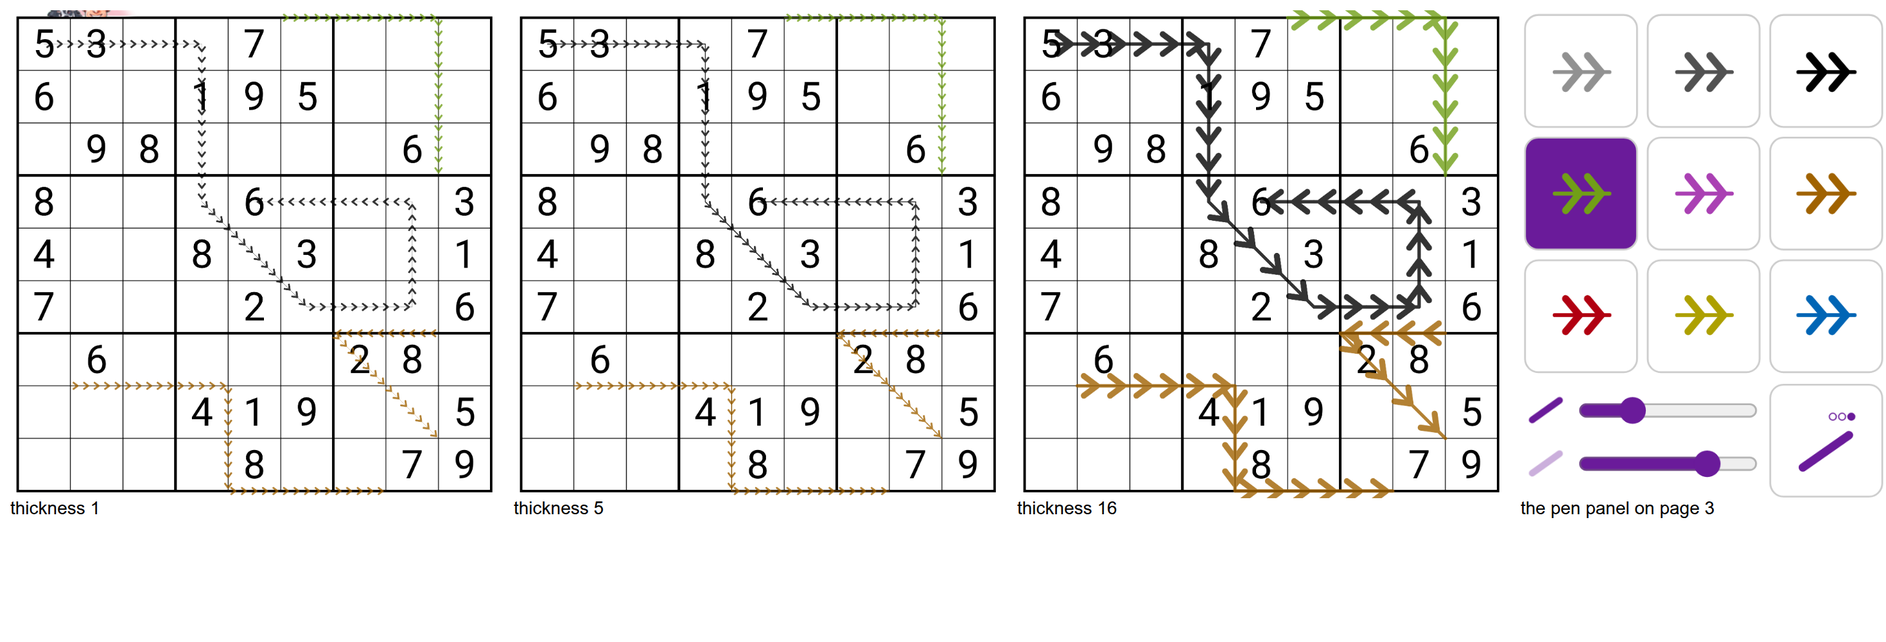
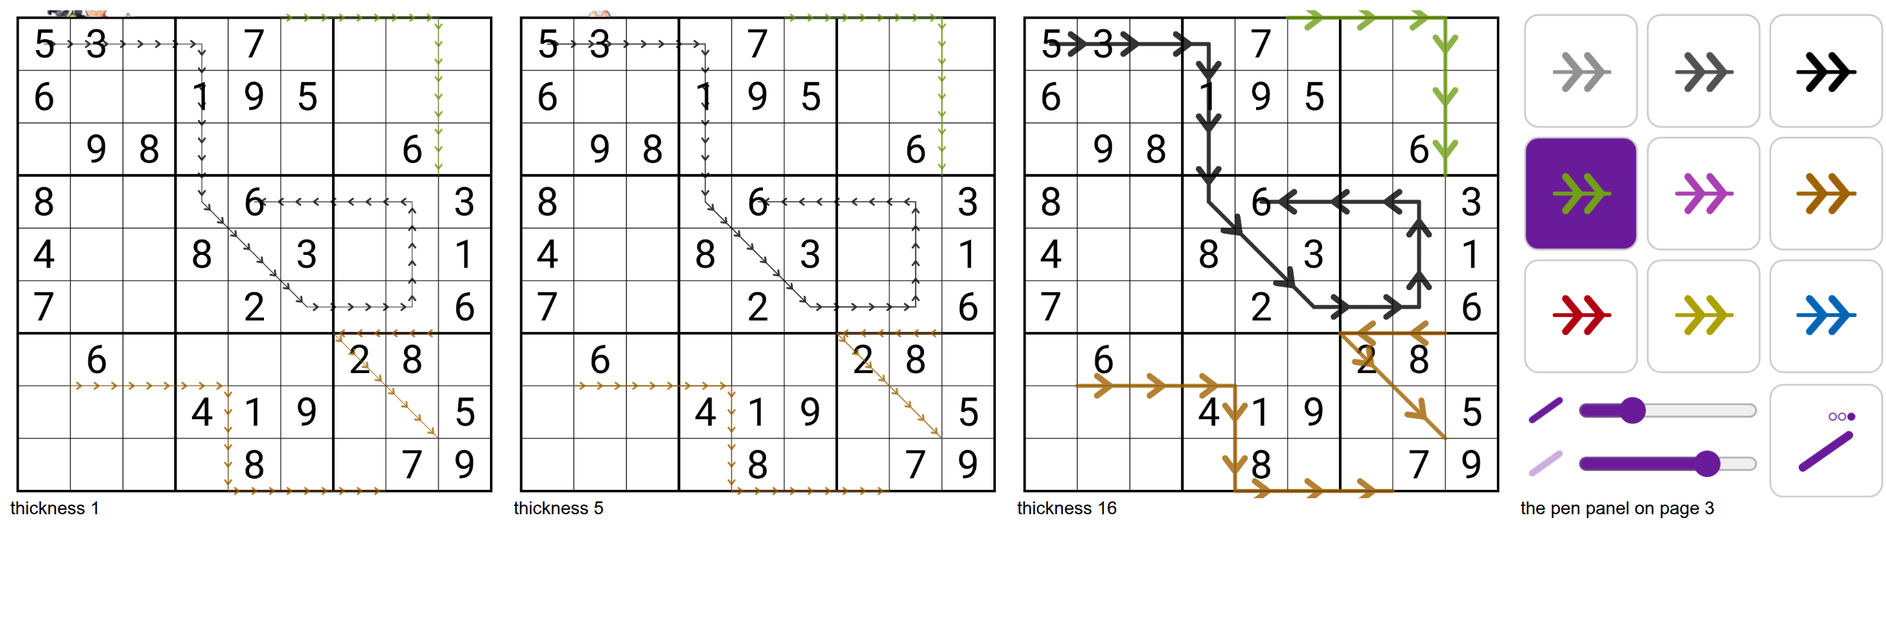
Pen Tool Extras: sparser chevrons and a thicker thin line (#73)

diff --git a/pen-tool-extras.test.js b/pen-tool-extras.test.js
@@ -1205,7 +1205,7 @@ test('the chevrons and the line scale with the thickness: wider chevrons, wider 
   const thick = chevronLine('1', true, 0, 0, 12)
   assert.equal(thick.lineWidth > thin.lineWidth && thick.chevronWidth > thin.chevronWidth, true, `widths ${thin.lineWidth}/${thin.chevronWidth} at 2, ${thick.lineWidth}/${thick.chevronWidth} at 12`)
   assert.equal(thin.chevronWidth > thin.lineWidth, true, `the line is the thin part: ${thin.lineWidth} against ${thin.chevronWidth}`)
-  assert.equal(thick.lineWidth / thin.lineWidth, 6)
+  assert.equal(chevronLine('1', true, 0, 0, 10).lineWidth / chevronLine('1', true, 0, 0, 5).lineWidth, 2, 'above the line\'s minimum it scales with the thickness')
   assert.equal(pointsOf(thin.chevrons).length > pointsOf(thick.chevrons).length, true, `${pointsOf(thin.chevrons).length / 3} chevrons at 2, ${pointsOf(thick.chevrons).length / 3} at 12`)
   const span = (c) => { const ys = pointsOf(c.chevrons).map((p) => p[1]); return Math.max(...ys) - Math.min(...ys) }
   assert.equal(span(thick) > span(thin), true, `spans ${span(thin)} at 2, ${span(thick)} at 12`)
@@ -1216,9 +1216,9 @@ test('below the default thickness the chevrons keep their size at the default an
   const five = chevronLine('1', true, 0, 0, THICKNESS.fallback)
   assert.equal(one.chevrons, five.chevrons)
   assert.equal(one.chevronWidth, five.chevronWidth)
-  assert.equal(one.lineWidth, CHEVRON.line)
+  assert.equal(one.lineWidth, CHEVRON.lineMin, 'the line is at its minimum, which is visible')
   assert.equal(one.lineWidth < five.lineWidth, true, `the line is ${one.lineWidth} at 1 and ${five.lineWidth} at 5`)
-  assert.equal(one.chevronWidth > one.lineWidth * 5, true, `a chevron stroke of ${one.chevronWidth} stands clear of a line of ${one.lineWidth}`)
+  assert.equal(one.chevronWidth > one.lineWidth * 2, true, `a chevron stroke of ${one.chevronWidth} stands clear of a line of ${one.lineWidth}`)
 })
 
 test('at the largest thickness a chevron on a grid\'s outer edge reaches no further than Dark Page keeps (SOLVER_REACH)', () => {
@@ -1229,10 +1229,10 @@ test('at the largest thickness a chevron on a grid\'s outer edge reaches no furt
   assert.equal(reach <= SOLVER_REACH, true, `reach ${reach} against ${SOLVER_REACH}`)
 })
 
-test('a chevron line has at least two chevrons on any segment at any thickness, so a run never has none', () => {
+test('a chevron line has at least one chevron on any segment at any thickness, so a run never has none', () => {
   for (const value of LINE_VALUES) {
     for (let t = THICKNESS.min; t <= THICKNESS.max; t++) {
-      assert.equal(pointsOf(chevronLine(value, true, 4, 4, t).chevrons).length >= 6, true, `at least two chevrons: ${value} at ${t}`)
+      assert.equal(pointsOf(chevronLine(value, true, 4, 4, t).chevrons).length >= 3, true, `at least one chevron: ${value} at ${t}`)
     }
   }
 })

diff --git a/pen-tool-extras.user.js b/pen-tool-extras.user.js
@@ -405,10 +405,11 @@
   // The sizes of a chevron line, in line widths (the thickness setting; the line's own width follows it all the way down, but a
   // chevron is never smaller than at the default thickness, so its direction stays visible at 1): a chevron's wings reach `halfLength` back and
   // `halfWidth` out from its middle and its tip `halfLength` forward; `line` and `stroke` are the widths of the thin line and the
-  // chevrons; `spacing` is the distance between two chevrons' middles, fitted to a whole number per segment. The furthest a
+  // chevrons (`lineMin` units at the least, so the line shows at thickness 1); `spacing` is the distance between two chevrons'
+  // middles, fitted to a whole number per segment (a run of chevrons, not a solid row of them). The furthest a
   // chevron reaches off its line, halfWidth plus half the stroke at the largest thickness, stays inside what Dark Page keeps
   // past a cell (its `SOLVER_REACH`; a unit test holds the two together).
-  const CHEVRON = { halfLength: 0.5, halfWidth: 0.75, stroke: 0.45, line: 0.25, spacing: 2.6 }
+  const CHEVRON = { halfLength: 0.5, halfWidth: 0.75, stroke: 0.45, line: 0.3, lineMin: 1, spacing: 5 }
 
   // Which way a line stored with the color character `char` was dragged: true for the character on a chevron page's button
   // (forward), false for its reverse character, null for a character no chevron page uses.
@@ -496,7 +497,7 @@
     // Chevrons keep the size they have at the default thickness below it; only the thin line gets thinner.
     const size = Math.max(thickness, THICKNESS.fallback)
     const [half, wide] = [CHEVRON.halfLength * size, CHEVRON.halfWidth * size]
-    // The shortest segment (a cell side) holds at least two even at the largest thickness, so there is never none.
+    // The shortest segment (a cell side) holds at least one even at the largest thickness, so there is never none.
     const count = Math.round(length / (CHEVRON.spacing * size))
     let chevrons = ''
     for (let i = 0; i < count; i++) {
@@ -507,7 +508,7 @@
     return {
       line: `M${pointText(from)}L${pointText(to)}`,
       chevrons,
-      lineWidth: CHEVRON.line * thickness,
+      lineWidth: Math.max(CHEVRON.lineMin, CHEVRON.line * thickness),
       chevronWidth: CHEVRON.stroke * size
     }
   }

diff --git a/README.md b/README.md
@@ -8,7 +8,7 @@ Install [Tampermonkey](https://www.tampermonkey.net/), then open a script's link
 
 - [Color by Digit](https://raw.githubusercontent.com/caneff/sudokupad-scripts/main/color-by-digit.user.js): adds a button that colors every cell holding a digit, and every empty cell whose centre marks all belong to one group, using groups of palette colors set in a settings dialog.
 - [Digit Color](https://raw.githubusercontent.com/caneff/sudokupad-scripts/main/digit-color.user.js): colors the digits themselves, one color per digit, in entered digits, corner marks and centre marks. Starts from default colors; change them in a settings dialog. Givens keep their color; a conflicting mark keeps its digit color and gets a small red circle behind it.
-- [Pen Tool Extras](https://raw.githubusercontent.com/caneff/sudokupad-scripts/main/pen-tool-extras.user.js): six things for the pen tool: the colors, the pen's line mode and the edge and corner marks in one settings dialog, a second and a third page of nine pens, and two sliders in the pen tool's own panel. **Colors:** changes the pen's nine colors. Strokes already drawn and the tool's color buttons change with them. With nothing saved, the nine pen colors are your current cell color page, darkened, each pen on the same button number as its cell color (pen 1 takes the page's color on button 1, and so on; button 0 is not used), with the darkest grey turned black, so installing changes the pen colors straight away; a cell color that is transparent or unreadable leaves SudokuPad's own pen color on that button; edit and Save to keep your own. In the dialog the nine colors are a 3 by 3 grid in the arrangement of the pen tool's buttons (1 2 3, 4 5 6, 7 8 9), each picker with its number. Holding a pen color button for a second (with either mouse button) puts a color picker over each button, as the cell color tool does: click one to open the picker, and the pen changes live and the set is saved; hold again, or leave the pen tool, to close them. The colors are read when the page loads, so changing cell colors later does not move the pen until the next load. **Thickness:** one slider (1 to 16; SudokuPad's own pen line is 5) scales pen lines, the pen's cell circles and crosses, and the edge and corner marks together: at 5 everything draws at its usual width, and moving the slider changes each by the same factor. Edge marks and corner marks (the edge X, the arrows and circles, the corner X and circle) also grow in length above 5, evenly to 1.3 times at 16, centred on their edge or corner, with the same stroke width as before the growth; lines do not change. The growth is a CSS scale, so marks already drawn grow too. Dark Page keeps the largest of them inside its rectangle. The slider sits in the pen tool's panel, so it changes during play and exists only while the pen tool is on: SudokuPad's line mode pulldown is hidden (its choice moved to the settings dialog, see Line mode below) and the two sliders take its row, Thickness above Opacity, each with a small line icon, beside the page button of Pen pages. A move changes the marks live and is saved at once under `PenColor_thickness`, with no Save or Cancel; it does not turn the colors into a saved set, adds nothing to undo or the replay, and gives the keyboard back to the puzzle. **Slider options:** the settings dialog has a Sliders section: Show thickness slider and Show opacity slider (both ticked by default; saved under `PenColor_sliders`, so settings saved without it keep both showing) and the Thickness and Opacity sliders themselves, which are always there, hidden from the panel or not. A hidden slider's value still applies to the marks and can still be changed in the dialog. With one slider hidden the other keeps its place in the panel; with both hidden the panel's last row holds only the page button. A dialog slider, like the rest of the dialog, takes effect on Save and Cancel leaves it; the panel's sliders keep saving at once, and the dialog opens at the value in force, so the two show the same value. **Opacity:** a second slider (20 to 100 percent, in steps of 5) sets how see-through every pen mark is: lines, cell circles and crosses, edge marks and corner marks. SudokuPad draws pen marks at 80 percent (`.cell-pen { opacity: 0.8 }` in `tool-pen.css`), so 80 is the default and leaves a single stroke as it is (overlaps differ, as described next); 100 is solid, and 20 is the floor where a mark still shows, so dense marks stop hiding the digits underneath. It is the second slider in the pen tool's panel, changes the marks live and is saved at once under `PenColor_opacity`. The opacity is set on the whole pen layer, not on each stroke, so strokes that overlap (the segments of one line, or two lines that cross) show the same as the rest of their stroke and no longer darken at the joins; where two colors cross, the later stroke covers the earlier one instead of blending with it. The drag highlight and the erase highlight keep SudokuPad's own look at every slider value. **Pen pages:** a second page of nine pens, and a third (below), for 27, paged the way SudokuPad's cell color tool pages its colors. Page 2 draws the same nine colors as page 1 with dotted lines (a free line, an edge line or a diagonal; the cell circle, the cross and the edge and corner marks stay solid), and the dots scale with the Thickness slider. The dialog's Dash length slider (0 to 8 line widths, saved under `PenColor_dash`) turns each dot into a dash: 0 is the dots of today, which saved settings without it keep, and a dash is that many line widths long, so it scales with Thickness, changes the page 2 lines already drawn, and shows on the page button; each cell's piece of a line starts and ends with half a gap, so dashes are the same length across a cell boundary, and a dash too long for a cell to hold a gap is shortened to leave one, so a page 2 line is never solid. The page 2 swatches stay dots. A page button at the right end of the panel's last row shows the line the next page draws, with a dot for each page and the current one filled; click it, press Tab, or turn the mouse wheel over the pen buttons (down for the next page, up for the previous) to change page. The same pen number stays selected, so Tab turns a green line into a dotted green one. The selected pen, page included, is saved under `PenColor_pen` and comes back after a reload; SudokuPad's own `ToolPen_color` only ever holds the pen's number, so removing this script leaves stock SudokuPad working with that pen on its first page. Recoloring a pen, in the dialog or by holding its button, changes it on every page. Tab does nothing else in the pen tool with this script on, with No Tab Letters installed or not (Shift+Tab is left to SudokuPad). **Chevron lines (page 3):** a third page of nine pens, the same nine colors, draws a thin line with a run of chevrons along it, pointing the way you dragged. A swatch on this page shows a chevron, and the page button shows one while the next page is this one. Only lines are chevron lines (a free, edge or diagonal line, each cell's piece drawn with whole chevrons so a run reads as one across a cell boundary); a cell circle, a cross, and the edge and corner marks stay solid. The chevrons scale with Thickness from 5 up (below 5 they keep their size at 5, so the direction stays visible, and only the thin line gets thinner; they are drawn again when it changes, so lines already drawn follow, and they stay inside the rectangle Dark Page keeps at 16) and follow Opacity. A pen value has no direction, so a page 3 pen is two color characters, `j` to `z` and `0`, two to a pen: a line stores the one for the way each segment was dragged, so a drag that turns stores the right character per segment and is still one undo step, and the replay and a reload keep it. Dragging over a line erases it whichever way either was drawn. Recoloring a pen changes it on all three pages. **Lines drawn with a page 3 pen, like page 2's, are invisible to anyone without this script**; **Lines drawn with a page 2 pen are invisible to anyone without this script**: SudokuPad stores them and shares them in the replay, but without this script's CSS it draws them with no color, so a viewer without the script sees the marks missing. **Line mode:** the dialog's Pen line mode (Center & Edge, Center only, Edge only) is SudokuPad's own setting, saved where its pulldown saved it; Save applies it. **Edge marks:** adds direction arrows (`>` `<` on a vertical edge, `^` `v` on a horizontal one) and a circle (a small open ring; a dot saved by an earlier version draws as the circle) to the pen tool's marks on a cell edge. Clicking an edge cycles through the marks ticked in the dialog, each shown with a small picture; the pen tool's own X is one of them. A right click on an edge steps the same cycle backwards (from empty to the last ticked mark, from the X to empty) and keeps the browser's menu closed there; a right click anywhere but on an edge or a grid corner keeps its menu. Touch has no right click, so it only steps forward. **Grid-corner marks:** a click within 0.2 of a cell of a grid corner, inner or outer, cycles an X, then a circle, then empty (a right click goes backwards, and keeps the browser's menu closed there); there are no arrows, since a corner has no edge direction. The dialog's two Corner marks boxes (X and Circle, each with a picture) turn each on or off, and with both off a click near a corner is SudokuPad's own edge click again. A corner shared by four cells is one mark. Corner marks are half the Thickness slider, like edge marks, and are saved in the same place as the edge marks settings (data saved by an earlier version reads as both boxes ticked). These wrap SudokuPad's pen tool and renderer, which are internals, so a SudokuPad update can break them, and the edge and corner marks are then left off, and page 3 lines draw as plain lines with no chevrons; the sliders also rely on SudokuPad's line mode pulldown, so if an update removes it they and the page button do not appear (the saved thickness and opacity still apply, but cannot be changed until this script is updated), while the colors still work. The dialog's Restore defaults goes back to the darkened page (Save keeps it), and sets the dialog's Thickness, Opacity and Dash length sliders and the two Show boxes back to their defaults, all of which wait for Save like the colors (Cancel leaves what was in force). Turn the pen tool on in settings first. It replaces Pen Color and Edge Marks: installed copies of those two stop updating, so remove them by hand in Tampermonkey; your saved colors and edge marks carry over.
+- [Pen Tool Extras](https://raw.githubusercontent.com/caneff/sudokupad-scripts/main/pen-tool-extras.user.js): six things for the pen tool: the colors, the pen's line mode and the edge and corner marks in one settings dialog, a second and a third page of nine pens, and two sliders in the pen tool's own panel. **Colors:** changes the pen's nine colors. Strokes already drawn and the tool's color buttons change with them. With nothing saved, the nine pen colors are your current cell color page, darkened, each pen on the same button number as its cell color (pen 1 takes the page's color on button 1, and so on; button 0 is not used), with the darkest grey turned black, so installing changes the pen colors straight away; a cell color that is transparent or unreadable leaves SudokuPad's own pen color on that button; edit and Save to keep your own. In the dialog the nine colors are a 3 by 3 grid in the arrangement of the pen tool's buttons (1 2 3, 4 5 6, 7 8 9), each picker with its number. Holding a pen color button for a second (with either mouse button) puts a color picker over each button, as the cell color tool does: click one to open the picker, and the pen changes live and the set is saved; hold again, or leave the pen tool, to close them. The colors are read when the page loads, so changing cell colors later does not move the pen until the next load. **Thickness:** one slider (1 to 16; SudokuPad's own pen line is 5) scales pen lines, the pen's cell circles and crosses, and the edge and corner marks together: at 5 everything draws at its usual width, and moving the slider changes each by the same factor. Edge marks and corner marks (the edge X, the arrows and circles, the corner X and circle) also grow in length above 5, evenly to 1.3 times at 16, centred on their edge or corner, with the same stroke width as before the growth; lines do not change. The growth is a CSS scale, so marks already drawn grow too. Dark Page keeps the largest of them inside its rectangle. The slider sits in the pen tool's panel, so it changes during play and exists only while the pen tool is on: SudokuPad's line mode pulldown is hidden (its choice moved to the settings dialog, see Line mode below) and the two sliders take its row, Thickness above Opacity, each with a small line icon, beside the page button of Pen pages. A move changes the marks live and is saved at once under `PenColor_thickness`, with no Save or Cancel; it does not turn the colors into a saved set, adds nothing to undo or the replay, and gives the keyboard back to the puzzle. **Slider options:** the settings dialog has a Sliders section: Show thickness slider and Show opacity slider (both ticked by default; saved under `PenColor_sliders`, so settings saved without it keep both showing) and the Thickness and Opacity sliders themselves, which are always there, hidden from the panel or not. A hidden slider's value still applies to the marks and can still be changed in the dialog. With one slider hidden the other keeps its place in the panel; with both hidden the panel's last row holds only the page button. A dialog slider, like the rest of the dialog, takes effect on Save and Cancel leaves it; the panel's sliders keep saving at once, and the dialog opens at the value in force, so the two show the same value. **Opacity:** a second slider (20 to 100 percent, in steps of 5) sets how see-through every pen mark is: lines, cell circles and crosses, edge marks and corner marks. SudokuPad draws pen marks at 80 percent (`.cell-pen { opacity: 0.8 }` in `tool-pen.css`), so 80 is the default and leaves a single stroke as it is (overlaps differ, as described next); 100 is solid, and 20 is the floor where a mark still shows, so dense marks stop hiding the digits underneath. It is the second slider in the pen tool's panel, changes the marks live and is saved at once under `PenColor_opacity`. The opacity is set on the whole pen layer, not on each stroke, so strokes that overlap (the segments of one line, or two lines that cross) show the same as the rest of their stroke and no longer darken at the joins; where two colors cross, the later stroke covers the earlier one instead of blending with it. The drag highlight and the erase highlight keep SudokuPad's own look at every slider value. **Pen pages:** a second page of nine pens, and a third (below), for 27, paged the way SudokuPad's cell color tool pages its colors. Page 2 draws the same nine colors as page 1 with dotted lines (a free line, an edge line or a diagonal; the cell circle, the cross and the edge and corner marks stay solid), and the dots scale with the Thickness slider. The dialog's Dash length slider (0 to 8 line widths, saved under `PenColor_dash`) turns each dot into a dash: 0 is the dots of today, which saved settings without it keep, and a dash is that many line widths long, so it scales with Thickness, changes the page 2 lines already drawn, and shows on the page button; each cell's piece of a line starts and ends with half a gap, so dashes are the same length across a cell boundary, and a dash too long for a cell to hold a gap is shortened to leave one, so a page 2 line is never solid. The page 2 swatches stay dots. A page button at the right end of the panel's last row shows the line the next page draws, with a dot for each page and the current one filled; click it, press Tab, or turn the mouse wheel over the pen buttons (down for the next page, up for the previous) to change page. The same pen number stays selected, so Tab turns a green line into a dotted green one. The selected pen, page included, is saved under `PenColor_pen` and comes back after a reload; SudokuPad's own `ToolPen_color` only ever holds the pen's number, so removing this script leaves stock SudokuPad working with that pen on its first page. Recoloring a pen, in the dialog or by holding its button, changes it on every page. Tab does nothing else in the pen tool with this script on, with No Tab Letters installed or not (Shift+Tab is left to SudokuPad). **Chevron lines (page 3):** a third page of nine pens, the same nine colors, draws a thin line with a run of chevrons along it, pointing the way you dragged. A swatch on this page shows a chevron, and the page button shows one while the next page is this one. Only lines are chevron lines (a free, edge or diagonal line, each cell's piece drawn with whole chevrons so a run reads as one across a cell boundary); a cell circle, a cross, and the edge and corner marks stay solid. The chevrons scale with Thickness from 5 up (below 5 they keep their size at 5, so the direction stays visible, and the thin line under them gets thinner only down to a minimum that still shows, with sparser chevrons, about three to a cell at 5; they are drawn again when it changes, so lines already drawn follow, and they stay inside the rectangle Dark Page keeps at 16) and follow Opacity. A pen value has no direction, so a page 3 pen is two color characters, `j` to `z` and `0`, two to a pen: a line stores the one for the way each segment was dragged, so a drag that turns stores the right character per segment and is still one undo step, and the replay and a reload keep it. Dragging over a line erases it whichever way either was drawn. Recoloring a pen changes it on all three pages. **Lines drawn with a page 3 pen, like page 2's, are invisible to anyone without this script**; **Lines drawn with a page 2 pen are invisible to anyone without this script**: SudokuPad stores them and shares them in the replay, but without this script's CSS it draws them with no color, so a viewer without the script sees the marks missing. **Line mode:** the dialog's Pen line mode (Center & Edge, Center only, Edge only) is SudokuPad's own setting, saved where its pulldown saved it; Save applies it. **Edge marks:** adds direction arrows (`>` `<` on a vertical edge, `^` `v` on a horizontal one) and a circle (a small open ring; a dot saved by an earlier version draws as the circle) to the pen tool's marks on a cell edge. Clicking an edge cycles through the marks ticked in the dialog, each shown with a small picture; the pen tool's own X is one of them. A right click on an edge steps the same cycle backwards (from empty to the last ticked mark, from the X to empty) and keeps the browser's menu closed there; a right click anywhere but on an edge or a grid corner keeps its menu. Touch has no right click, so it only steps forward. **Grid-corner marks:** a click within 0.2 of a cell of a grid corner, inner or outer, cycles an X, then a circle, then empty (a right click goes backwards, and keeps the browser's menu closed there); there are no arrows, since a corner has no edge direction. The dialog's two Corner marks boxes (X and Circle, each with a picture) turn each on or off, and with both off a click near a corner is SudokuPad's own edge click again. A corner shared by four cells is one mark. Corner marks are half the Thickness slider, like edge marks, and are saved in the same place as the edge marks settings (data saved by an earlier version reads as both boxes ticked). These wrap SudokuPad's pen tool and renderer, which are internals, so a SudokuPad update can break them, and the edge and corner marks are then left off, and page 3 lines draw as plain lines with no chevrons; the sliders also rely on SudokuPad's line mode pulldown, so if an update removes it they and the page button do not appear (the saved thickness and opacity still apply, but cannot be changed until this script is updated), while the colors still work. The dialog's Restore defaults goes back to the darkened page (Save keeps it), and sets the dialog's Thickness, Opacity and Dash length sliders and the two Show boxes back to their defaults, all of which wait for Save like the colors (Cancel leaves what was in force). Turn the pen tool on in settings first. It replaces Pen Color and Edge Marks: installed copies of those two stop updating, so remove them by hand in Tampermonkey; your saved colors and edge marks carry over.
 - [Dark Page](https://raw.githubusercontent.com/caneff/sudokupad-scripts/main/dark-page.user.js): makes the page black around the puzzle, or another color you pick in a settings dialog (a color picker, and a Black button to go back); the choice is kept and applies without a reload, and the page's own text turns dark on a light color. On a dark color the control buttons go dark gray with light purple icons; on a light one they stay as SudokuPad draws them. A rectangle bounding everything the puzzle draws, and the cells you write in, stays as SudokuPad renders it. Not SudokuPad's dark mode.
 - [No Tab Letters](https://raw.githubusercontent.com/caneff/sudokupad-scripts/main/no-tab-letters.user.js): stops Tab from toggling SudokuPad's letter mode. SudokuPad binds both `/` and Tab to the letter toggle and saves the mode, so a stray Tab left the number pad on letters after a refresh. This replaces only the Tab binding's handler in the letter tool with one that does nothing, so during play Tab does what it did before minus the toggle (focus stays where it is), the letter button and `/` still toggle, and Tab still moves focus in dialogs. It works whenever you turn the letter tool on in settings. It has no settings entry or dialog. If a SudokuPad update changes what it hooks (the letter tool or its Tab binding to the toggle), it logs a warning in the browser console and changes nothing.
 

diff --git a/GLOSSARY.md b/GLOSSARY.md
@@ -67,8 +67,8 @@
   dashes are the same length across a cell boundary.
 - **chevron line** — a line drawn with a page 3 pen: a thin line with a run of chevrons along it, pointing the way the line was
   dragged. Only lines are chevron lines; a cell circle, cross, edge mark or corner mark in a page 3 pen is solid. Its size and
-  spacing scale with the thickness from the default up (a chevron is never smaller than at 5, while the thin line keeps
-  thinning), and it follows the opacity. Each cell's segment fits whole chevrons, half a space in from
+  spacing scale with the thickness from the default up (a chevron is never smaller than at 5, while the thin line thins only
+  down to a minimum that shows), and it follows the opacity. Each cell's segment fits whole chevrons, half a space in from
   each end, so a run reads as one across a cell boundary.
 - **direction character** — a page 3 pen is two color characters, since a pen value has no direction: the one on its button
   (`j`, `l`, `n`, `p`, `r`, `t`, `v`, `x`, `z`) for a line dragged the way SudokuPad draws the value (right, down, up and right for `d`,
